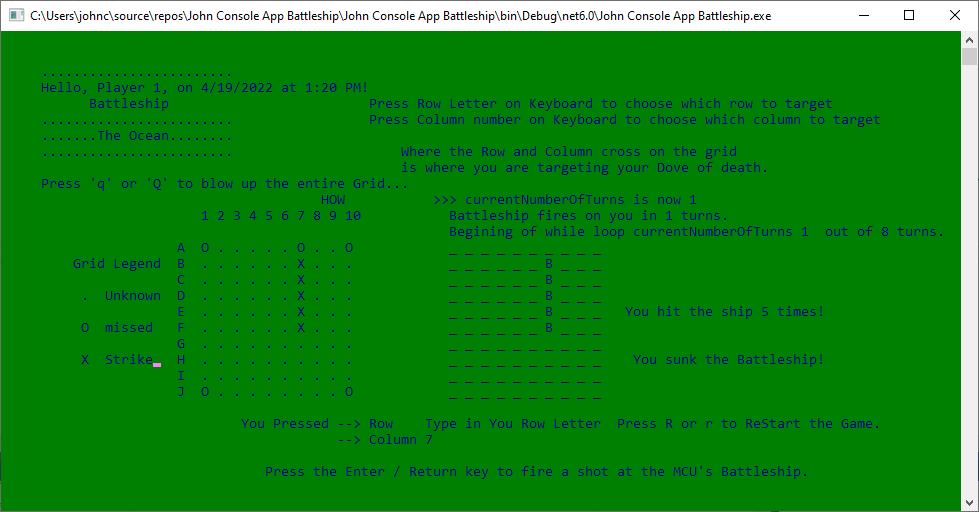
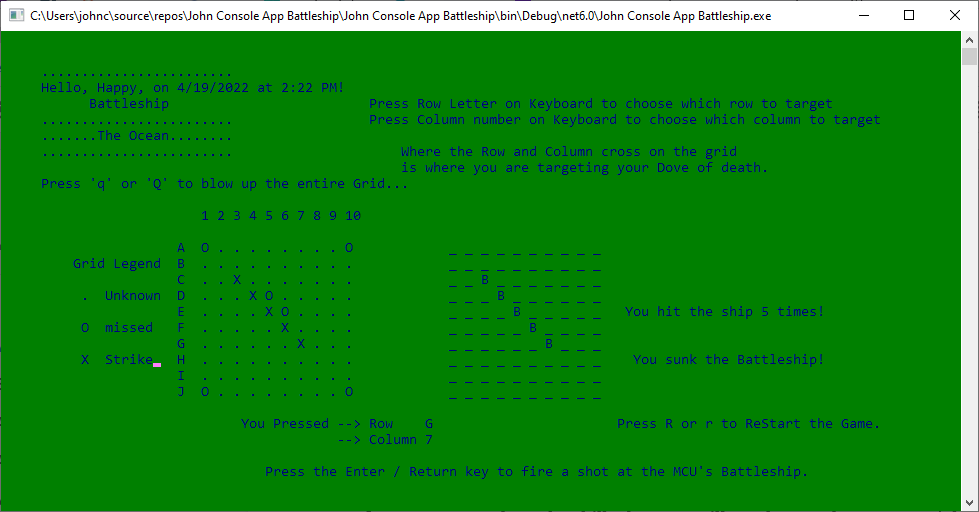
Finished!  Woo-Hoo.  Minor logic to fix after sinking battleship need to NOT say You Ran out of turns.

diff --git a/John Console App Battleship/Program.cs b/John Console App Battleship/Program.cs
@@ -37,25 +37,20 @@ class Program
             bool runGame = true;
             char actorChar = 'y';
             
-            string displayString = $"Battleship Start Row {battleShipGrid.getBattleShipRowStart}  --> Start Column {battleShipGrid.getBattleShipColStart}  ";
-            battleShipDisplay.WriteInformationLine(displayString);
-
             const int numberOfTurnsMax = 8;
             int currentNumberOfTurns = numberOfTurnsMax;
-            bool wasUserBattleShipGridPlayerFires = false;
 
             int previousRow = -1;
             int previousColumn = -1;
+            bool userTriedAndFailed = false;
+            int  userTriedAndFailedCount = 0;
 
             while (runGame)
             {
                 var currentDate = DateTime.Now;
 
                 battleShipDisplay.ResetScreen();
-                userBattleShipGrid.updateGameOverStatus(false);
-
-                battleShipDisplay.WriteStringToPoint($"Begining of while loop currentNumberOfTurns {currentNumberOfTurns}  out of {numberOfTurnsMax} turns.",
-                                                    battleShipDisplay.GetErrorLeft() + 10, battleShipDisplay.GetErrorTop() - 1);
+                userBattleShipGrid.updateRestartGameStatus(false);
 
                 battleShipDisplay.WriteHeaderLine("........................", 0, 0);
                 battleShipDisplay.WriteHeaderLine($"Hello, {name}, on {currentDate:d} at {currentDate:t}!", 0, 1);
@@ -70,27 +65,13 @@ class Program
 
                 int numberOfStrikes = 0;
                 char rowCharacter = ' ';
-                // int curNumOfTurnsBeginingOfForLoop = currentNumberOfTurns;
 
-                // battleShipDisplay.GetGridLeft() 5, battleShipDisplay.GetGridTop() 10
-                // y is 10; 10 < 10 + 10; 10++
-                // y is 11; 10 < 20; 10++
                 for (int row = 0; row < battleShipGrid.getNumberRows(); row++) {
-                    // 7 + 8 + 20 = 35 0
-                    // 8 + 9 + 20 = 36 1
-                    // 9 + 10 + 20 = 37 2
-                    // 48 starts 1st row at 0
+
                     rowCharacter = Convert.ToChar(battleShipDisplay.GetGridTop() + 52 + row);
 
-                    // 3, 10
-                    // 3, 11
-                    // 3, 12
                     battleShipDisplay.WriteCharToGridPoint(rowCharacter, -3, row);
 
-                    // 5; 5 < 5 + (10 * 2); 5 += 2
-                    // 7; 7 < 5 + (20); 7 += 2
-                    // 9; 7 < 25; 9 += 2
-                    // 11; 11 < 25; 11 += 2
                     for (int column = 0; column < battleShipGrid.getNumberColumns(); column++ ) {
                         if (userBattleShipGrid.getTargetLocation(column, row) == userBattleShipGrid.getUserTargetChar() 
                             && battleShipGrid.isShipLocatedHere(column, row)) {
@@ -108,7 +89,7 @@ class Program
                             battleShipDisplay.WriteCharToGrid('.', column, row);
                         }
 
-                        /* TESTING */
+                        /* TESTING Easter Egg */
                         if (userBattleShipGrid.isTesting) {
                             if (battleShipGrid.isShipLocatedHere(column, row)) {
                                 battleShipDisplay.WriteCharToPoint('B', 
@@ -118,77 +99,49 @@ class Program
                                 battleShipDisplay.WriteCharToPoint('_', 
                                                 battleShipDisplay.GetErrorLeft() + (column * 2) + 10, battleShipDisplay.GetErrorTop() + row);
                             }
-                        } /* */
+                        }
 
                     }  // for column
                 }  // for row
 
                 int testingPresentWidth = (userBattleShipGrid.isTesting) ? 21 : 0;
 
-                if (wasUserBattleShipGridPlayerFires) {
-                    wasUserBattleShipGridPlayerFires = false;
-                    battleShipDisplay.WriteStringToPoint($"update PlayerRow {userBattleShipGrid.PlayerRow}",
-                                        battleShipDisplay.GetErrorLeft() + testingPresentWidth + 11, battleShipDisplay.GetErrorTop() + 10);
-                    battleShipDisplay.WriteStringToPoint($"update PlayerCol {userBattleShipGrid.PlayerColumn}",
-                                        battleShipDisplay.GetErrorLeft() + testingPresentWidth + 11, battleShipDisplay.GetErrorTop() + 11);
-                }
-
                 string extraS = (userBattleShipGrid.ShipStrikes == 1) ? "" : "s";
 
-                if (userBattleShipGrid.ShipStrikes > 0 && userBattleShipGrid.areUserInputsValid()) {
+                if (userBattleShipGrid.ShipStrikes > 0) {
 
                     battleShipDisplay.WriteStringToPoint($"You hit the ship {userBattleShipGrid.ShipStrikes} time{extraS}!",
                                          battleShipDisplay.GetErrorLeft() + testingPresentWidth + 11, battleShipDisplay.GetErrorTop() + 4);
 
-                    battleShipDisplay.WriteStringToPoint($"Player shot [getRowIndex(), PlayerColumn]",
-                                         battleShipDisplay.GetErrorLeft() + testingPresentWidth +  9, battleShipDisplay.GetErrorTop() + 6);
-                    battleShipDisplay.WriteStringToPoint($"            [{userBattleShipGrid.getRowIndex()}, {userBattleShipGrid.PlayerColumn - 1}]",
-                                         battleShipDisplay.GetErrorLeft() + testingPresentWidth +  9, battleShipDisplay.GetErrorTop() + 7);
-
-                    if (userBattleShipGrid.getTargetLocation(userBattleShipGrid.PlayerColumn - 1, userBattleShipGrid.getRowIndex())
-                                == userBattleShipGrid.getUserTargetChar()) {
-                    // When Actor presses ENTER
-                        // currentNumberOfTurns--;
-                        battleShipDisplay.WriteStringToPoint($"WHAT getTargetLoction == getUserTargetChar  >>> currentNumberOfTurns is now {currentNumberOfTurns}",
-                                                        battleShipDisplay.GetErrorLeft() - 6, battleShipDisplay.GetErrorTop() - 3);
-                    }
-                    else {
-                        // When Actor presses non-Enter keys
-
-                        if (userBattleShipGrid.ShipStrikes == 1) {
-                            currentNumberOfTurns = battleShipGrid.getShipLength() - userBattleShipGrid.ShipStrikes + 2;
-                            battleShipDisplay.WriteStringToPoint($"HEY getTargetLoction  !=  getUserTargetChar  >>> currentNumberOfTurns is now {currentNumberOfTurns}",
-                                                            battleShipDisplay.GetErrorLeft() - 6, battleShipDisplay.GetErrorTop() - 3);
-                        }
-                        else {
-                            // currentNumberOfTurns = ;
-                        }
-                    }
-
-                    //battleShipDisplay.WriteStringToPoint($"ShipStrikes > 0 && areUserInputsValid then currentNumberOfTurns is now {currentNumberOfTurns}  out of {numberOfTurnsMax} turns.",
-                    //                                  battleShipDisplay.GetErrorLeft() - 6, battleShipDisplay.GetErrorTop() - 3);
-
                 }
-                else if (userBattleShipGrid.ShipStrikes > 0) {
-                    battleShipDisplay.WriteStringToPoint($"You hit the ship {userBattleShipGrid.ShipStrikes} time{extraS}!",
-                                        battleShipDisplay.GetErrorLeft() + testingPresentWidth + 11, battleShipDisplay.GetErrorTop() + 4);
+                else if ( userTriedAndFailed ) {
 
-                    battleShipDisplay.WriteStringToPoint($"HOW           >>> currentNumberOfTurns is now {currentNumberOfTurns}",
-                                                        battleShipDisplay.GetErrorLeft() - 6, battleShipDisplay.GetErrorTop() - 3);
+                    userTriedAndFailedCount++;
+
+                    battleShipDisplay.WriteStringToPoint("You Ran out of turns",
+                                        battleShipDisplay.GetGridLeft() + 1, battleShipDisplay.GetGridTop() + 2);
+                    battleShipDisplay.WriteStringToPoint("The Battleship smashed you.",
+                                        battleShipDisplay.GetGridLeft() + 2, battleShipDisplay.GetGridTop() + 4);
+                    battleShipDisplay.WriteStringToPoint("You reincarnated now try to find Battleship again to find and sink!",
+                                        battleShipDisplay.GetGridLeft() + 3, battleShipDisplay.GetGridTop() + 6);
+                    
+                    if (userTriedAndFailedCount > 1) {
+                        userTriedAndFailed = false;
+                        userTriedAndFailedCount = 0;
+                    }
                 }
-
 
                 if (userBattleShipGrid.ShipStrikes > 4) {
                     battleShipDisplay.ReverseColors();
                     Task.Delay(200);
                     battleShipDisplay.WriteStringToPoint($"You sunk the Battleship!", 
-                                                battleShipDisplay.GetErrorLeft() + testingPresentWidth + 12, battleShipDisplay.GetErrorTop() + 7);
+                                        battleShipDisplay.GetErrorLeft() + testingPresentWidth + 12, battleShipDisplay.GetErrorTop() + 7);
                     battleShipDisplay.ForeColors();
                     Task.Delay(200);
                     battleShipDisplay.ReverseColors();
 
                     battleShipDisplay.WriteStringToPoint($"Press R or r to ReStart the Game.",
-                                                battleShipDisplay.GetErrorLeft() + testingPresentWidth + 10, battleShipDisplay.GetErrorTop() + 11);
+                                        battleShipDisplay.GetErrorLeft() + testingPresentWidth + 10, battleShipDisplay.GetErrorTop() + 11);
 
                 }
 
@@ -201,8 +154,10 @@ class Program
                 battleShipDisplay.WriteStringToPoint("is where you are targeting your Dove of death.",
                                                        battleShipDisplay.GetErrorLeft() + 4, battleShipDisplay.GetErrorTop() - 5);
 
-                battleShipDisplay.WriteStringToPoint($"Battleship fires on you in {currentNumberOfTurns} turns.",
-                                                           battleShipDisplay.GetErrorLeft() + 10, battleShipDisplay.GetErrorTop() - 2);
+                if (userBattleShipGrid.ShipStrikes < battleShipGrid.getShipLength()) {
+                    battleShipDisplay.WriteStringToPoint($"Battleship fires on you in {currentNumberOfTurns} turns.",
+                                                            battleShipDisplay.GetErrorLeft() + 10, battleShipDisplay.GetErrorTop() - 2);
+                }
 
 
                 string actorRowString    = (userBattleShipGrid.PlayerRow == '_') ? "Type in You Row Letter" : userBattleShipGrid.PlayerRow.ToString() ;
@@ -240,15 +195,10 @@ class Program
                 }
                 else if (battleShipInput.GetKeyFromActor() == ConsoleKey.Enter) {
                     userBattleShipGrid.updatePlayerFires(true);
-                    wasUserBattleShipGridPlayerFires = true;
                 }
                 else {
                     // Could use a List to replace this Switch Case
                     switch (actorChar) {
-                        case 'Q' or 'q':
-                            runGame = false;
-                            break;
-
                         case 'A' or 'a':
                             userBattleShipGrid.updatePlayerRow('A');
                             break;
@@ -289,13 +239,21 @@ class Program
                             userBattleShipGrid.updatePlayerRow('J');
                             break;
 
+                        case 'Q' or 'q':
+                            runGame = false;
+                            break;
+
                         case 'R' or 'r':
                             userBattleShipGrid.updatePlayerRow('_');
-                            userBattleShipGrid.updateGameOverStatus(true);
+                            userBattleShipGrid.updateRestartGameStatus(true);
                             break;
 
                         case 'T' or 't':
-                            userBattleShipGrid.updatePlayerRow('_');
+                            char charToUse = '_';
+                            if ( previousRow >= 0 && previousRow < 10 ) {
+                                charToUse = userBattleShipGrid.getRowChar(previousRow);
+                            }
+                            userBattleShipGrid.updatePlayerRow(charToUse);
                             userBattleShipGrid.toggleTesting();
                             break;
                     
@@ -304,9 +262,11 @@ class Program
                 } // else
 
                 // When Actor presses ENTER
-                if (userBattleShipGrid.PlayerFires &&
-                        ( previousRow != userBattleShipGrid.getRowIndex() ||
-                            previousColumn != userBattleShipGrid.PlayerColumn - 1 ) ) {
+                if (userBattleShipGrid.areUserInputsValid() &&
+                    userBattleShipGrid.ShipStrikes < battleShipGrid.getShipLength() &&
+                        userBattleShipGrid.PlayerFires &&
+                            ( previousRow != userBattleShipGrid.getRowIndex() ||
+                                previousColumn != userBattleShipGrid.PlayerColumn - 1 ) ) {
 
                     previousRow = userBattleShipGrid.getRowIndex();
                     previousColumn = userBattleShipGrid.PlayerColumn - 1;
@@ -317,28 +277,13 @@ class Program
                     if (userBattleShipGrid.didUserFireHere(userBattleShipGrid.PlayerColumn - 1, userBattleShipGrid.getRowIndex())
                             == battleShipGrid.isShipLocatedHere(userBattleShipGrid.PlayerColumn - 1, userBattleShipGrid.getRowIndex())) {
 
-                        // On 1st Player fire, the ShipStrikes will be 0 at this point
-                        // On 2nd Player fire, the ShipStrikes will be 1 at this point
                         if (userBattleShipGrid.ShipStrikes == 0) {
-                            // 5 - 0 + 2 = 7
-                            // 5 - 1 + 2 = 6
-                            // ..
-                            // 5 - 4 + 2 = 3
                             currentNumberOfTurns = battleShipGrid.getShipLength() - userBattleShipGrid.ShipStrikes + 2;
-                        } // if
+                        }
 
-                        // Example 1 - It's a hit and it's ShipStrikes >= 1
                         else {
-                            // Example 2 - It was a hit previously but they missed and now hit again
-                            // 2 < 1 = 2 turns left and only struck ship once
-                            //              5 - 2 = 3
-                            //              5 - 1 = 4
-                            // 2 < 2 = 2 turns left and struck ship twice
-                            // 2 < 3 = 2 turns left and struck ship 3 times
                             if ( currentNumberOfTurns < battleShipGrid.getShipLength() ) {
-                                /*
-                                 * 
-                                 */
+
                                 if (currentNumberOfTurns < battleShipGrid.getShipLength() - userBattleShipGrid.ShipStrikes) {
                                     currentNumberOfTurns = battleShipGrid.getShipLength() - userBattleShipGrid.ShipStrikes + 0;
                                 }
@@ -348,23 +293,28 @@ class Program
                             }
                             else {
                                 currentNumberOfTurns--;
-                            } // else
-                        } // else
-                    } // if a hit
+                            }
+                        }
+                    }
 
                     // If not a hit
-                    // Example 1 - subtract 1
-                    // Example 2 - On any Player fire after they hit the ship and this time they miss then subtract 1
                     else {
                         currentNumberOfTurns--;
-                    } // else
+                    }
 
                 } // If Actor fires
 
-                if (userBattleShipGrid.StartGameOver) {
+                if ( userBattleShipGrid.StartGameOver || currentNumberOfTurns < 0 ) {
                     battleShipGrid.startGameOver();
                     userBattleShipGrid.resetUserShipStatus();
                     currentNumberOfTurns = numberOfTurnsMax;
+                    
+                    previousRow = -1;
+                    previousColumn = -1;
+
+                    if ( ! userBattleShipGrid.StartGameOver ) {
+                        userTriedAndFailed = true;
+                    }
                 }
 
             } // while

diff --git a/John Console App Battleship/classes/UserBattleShipGrid.cs b/John Console App Battleship/classes/UserBattleShipGrid.cs
@@ -43,10 +43,12 @@ public class UserBattleShipGrid {
 
     public void resetUserShipStatus() {
 
-        updateGameOverStatus(false);
+        updateRestartGameStatus(false);
 
         PlayerRow = '_';
         PlayerColumn = -99;
+
+        updatePlayerFires(false);
 
         updateNumberOfHits(0);
 
@@ -104,7 +106,7 @@ public class UserBattleShipGrid {
     public bool areUserInputsValid() {
         bool returnBoolean = false;
         if (getRowIndex() >= 0 && getRowIndex() < _RowNumbers.Count) {
-            if ( PlayerColumn > 0 && PlayerColumn < _numberCols) {
+            if ( PlayerColumn > 0 && PlayerColumn <= _numberCols) {
                 returnBoolean = true;
             }
         }
@@ -117,6 +119,13 @@ public class UserBattleShipGrid {
 
         // when I did a direct return of the _RowNumbers.FindIndex it broke the code.
         return rowIndex;
+    }
+
+    public char getRowChar(int index) {
+
+        char charAtIndex = _RowNumbers.ElementAt(index);
+
+        return charAtIndex;
     }
 
     public void markUserTarget() {
@@ -139,7 +148,7 @@ public class UserBattleShipGrid {
         ShipStrikes = numberOfShipStrikes;
     }
 
-    public void updateGameOverStatus(bool gameStatus) {
+    public void updateRestartGameStatus(bool gameStatus) {
         StartGameOver = gameStatus;
     }
 
